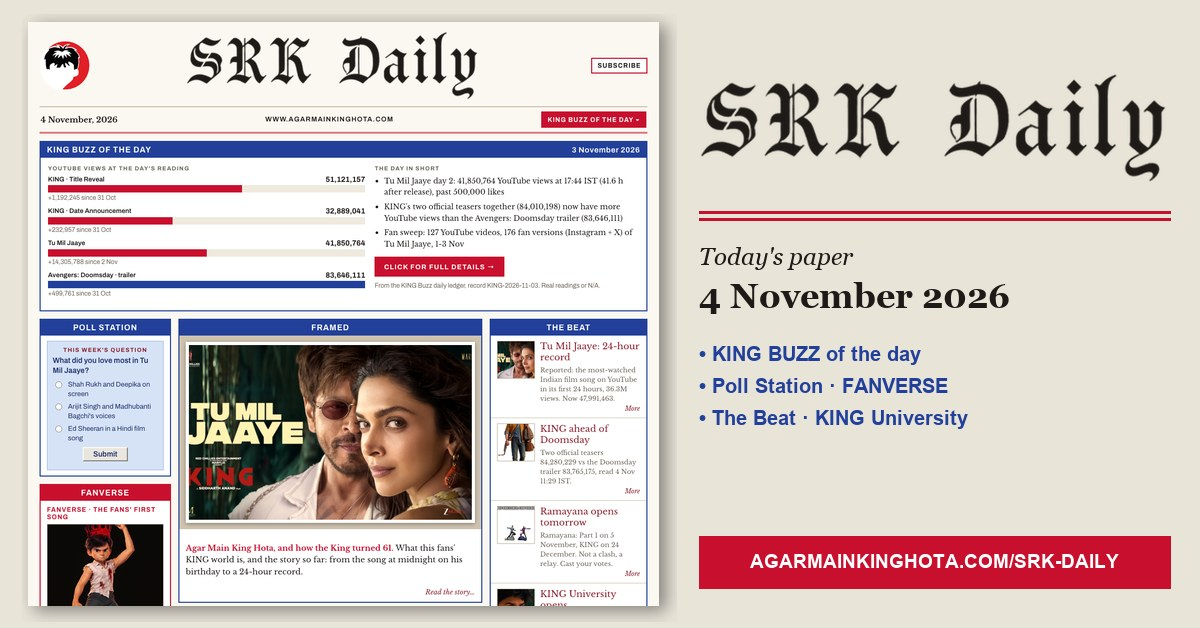
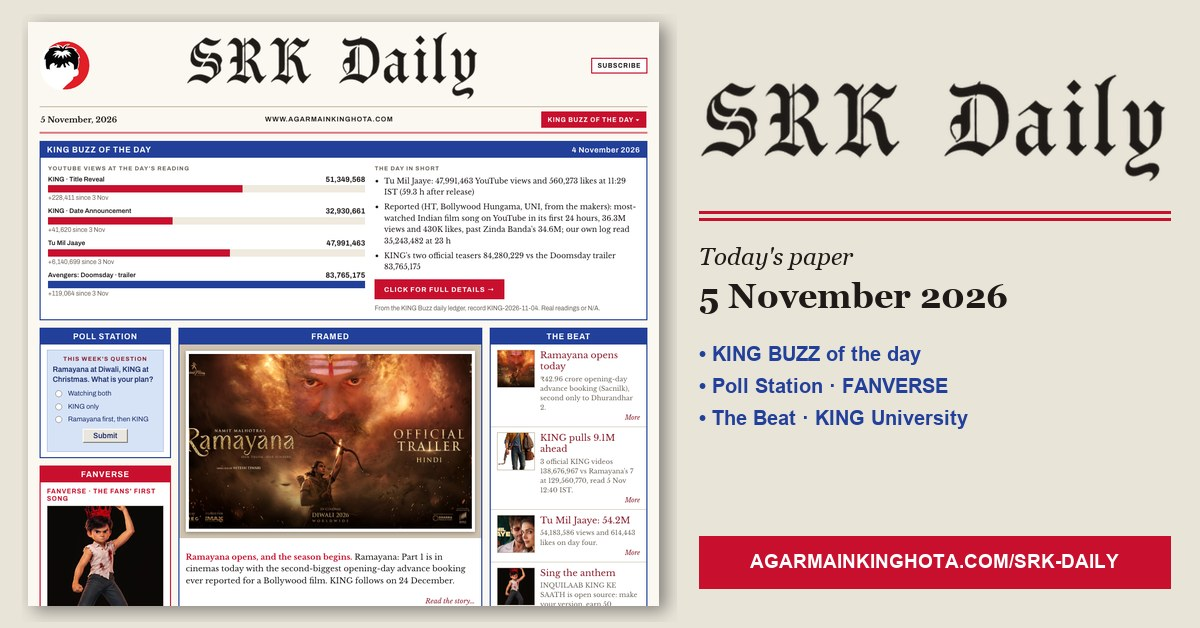
SRK DAILY: today's front-page link preview (5 Nov) (#427)

diff --git a/srk-daily/index.html b/srk-daily/index.html
@@ -12,12 +12,12 @@
 <meta property="og:type" content="website">
 <meta property="og:url" content="https://agarmainkinghota.com/srk-daily/">
 <meta property="og:site_name" content="Agar Main King Hota">
-<meta property="og:image" content="https://agarmainkinghota.com/assets/srk-daily-today.jpg?d=2026-11-04">
+<meta property="og:image" content="https://agarmainkinghota.com/assets/srk-daily-today.jpg?d=2026-11-05">
 <meta property="og:image:width" content="1200">
 <meta property="og:image:height" content="630">
 <meta property="og:image:alt" content="SRK Daily, today's front page">
 <meta name="twitter:card" content="summary_large_image">
-<meta name="twitter:image" content="https://agarmainkinghota.com/assets/srk-daily-today.jpg?d=2026-11-04">
+<meta name="twitter:image" content="https://agarmainkinghota.com/assets/srk-daily-today.jpg?d=2026-11-05">
 <link rel="icon" href="/favicon.ico" sizes="any">
 <link rel="icon" type="image/png" sizes="32x32" href="/assets/icons/crown-32.png">
 <link rel="apple-touch-icon" href="/assets/icons/apple-touch-icon.png">
